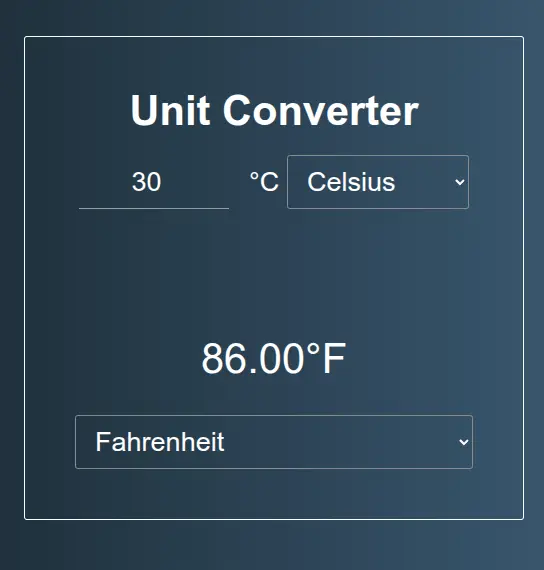
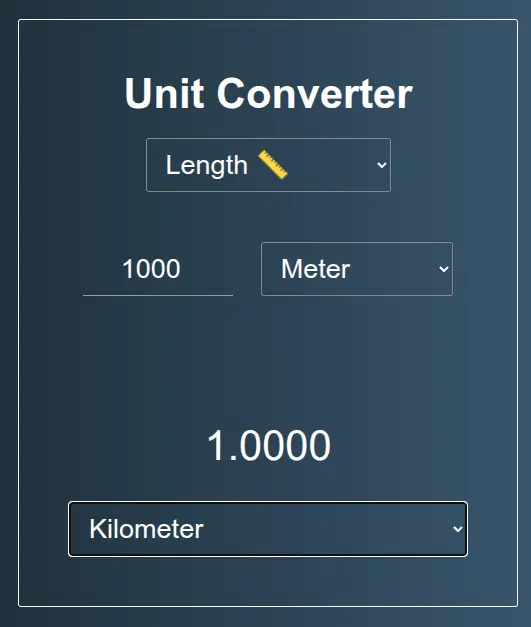
add length feature and code refactory

diff --git a/modules/length.js b/modules/length.js
@@ -1,16 +1,10 @@
-//SI-unit-functuion-------------------------------
-
-export function up(value, coefficient){
-    value = parseFloat(value);
-    let result = Number.parseFloat(value).toFixed(2)*coefficient;
-    return result;
-}
-//------------------------------------------------
 export function lengthConvert(x,y,value){
     let meter;
-    const MILEMETER = 1609.344;
-    const YARDMETER = 0.9144;
-    const FEETMETER = 0.3048;
+    const tometer = {
+        mile:  1609.344,
+        yard:  0.9144,
+        feet:  0.3048
+    };
 
     switch(true){
         case(x == "millimeter"):
@@ -35,13 +29,13 @@ export function lengthConvert(x,y,value){
             meter = value * 1000;
             break;
         case(x == "mile"):
-            meter = value * MILEMETER;
+            meter = value * tometer.mile;
             break;
         case(x == "yard"):
-            meter = value * YARDMETER;
+            meter = value * tometer.yard;
             break;
         case(x == "feet"):
-            meter = value * FEETMETER;
+            meter = value * tometer.feet;
             break;
         case(x == y):
             meter = value;
@@ -71,19 +65,19 @@ export function lengthConvert(x,y,value){
             result = meter / 1000;
             break;
         case (y == "mile"):
-            result = meter / MILEMETER;
+            result = meter / tometer.mile;
             break;
         case (y == "yard"):
-            result = meter / YARDMETER;
+            result = meter / tometer.yard;
             break;
         case (y == "feet"):
-            result = meter / FEETMETER;
+            result = meter / tometer.feet;
             break;
         case(x == y):
             meter = value;
             break;
     }
-    return result.toFixed(3);
+    return result.toPrecision(5);
 }
 
 

diff --git a/modules/temperature.js b/modules/temperature.js
@@ -1,37 +1,39 @@
+const FIXED = 5;
+
 function celsiusTokelvin(celsius){
     celsius = parseFloat(celsius);
-    let result = Number.parseFloat(celsius + 273.15).toFixed(2);
+    let result = Number.parseFloat(celsius + 273.15).toPrecision(FIXED);
     return result;
 }
 
 function celsiusTofahrenheit(celsius){
     celsius = parseFloat(celsius);
-    let result = Number.parseFloat(celsius*9/5+32).toFixed(2);
+    let result = Number.parseFloat(celsius*9/5+32).toPrecision(FIXED);
     return result;
 }
 
 //kelvin-------------------------
 function kelvinTocelsius(kelvin){
     kelvin = parseFloat(kelvin);
-    let result = Number.parseFloat(kelvin-273.15).toFixed(2);
+    let result = Number.parseFloat(kelvin-273.15).toPrecision(FIXED);
     return result;
 }
 
 function kelvinTofahrenheit(kelvin){
     kelvin = parseFloat(kelvin);
-    let result = Number.parseFloat((kelvin-273.15)*9/5+32).toFixed(2);
+    let result = Number.parseFloat((kelvin-273.15)*9/5+32).toPrecision(FIXED);
     return result;
 }
 //fahrenheit-----------------------------
 function fahrenheitTocelsius(fahrenheit){
     fahrenheit = parseFloat(fahrenheit);
-    let result = Number.parseFloat((fahrenheit-32)*5/9).toFixed(2);
+    let result = Number.parseFloat((fahrenheit-32)*5/9).toPrecision(FIXED);
     return result;
 }
 
 function fahrenheitTokelvin(fahrenheit){
     fahrenheit = parseFloat(fahrenheit);
-     let result = Number.parseFloat(fahrenheit*5/9+255.37).toFixed(2);
+     let result = Number.parseFloat(fahrenheit*5/9+255.37).toPrecision(FIXED);
     return result;
 }
 

diff --git a/index.html b/index.html
@@ -11,7 +11,7 @@
         <div class="box">
             <h2>Unit Converter</h2>
               <select name="" id="unit" style="margin-bottom: 50px;">
-                    <option value="default" selected>Select a Unit</option>
+                    <option value="default" selected>Select Unit</option>
                     <option value="length">Length 📏</option>
                     <option value="temperature">Temperature 🌡</option>
                 </select>

diff --git a/README.md b/README.md
@@ -5,14 +5,15 @@ A simple JavaScript application that converts the units of measurement.
 ## How it works ⚙
 
 
-The application, written in Javascript requires user to insert a starting value in a number field, and an unit measure in select menu (on top).
+The application, written in Javascript requires user to choose a physic quantity in the top menu, a initial value in a number field, and an unit of measurement in drop-down menu.
 
 ![App-demo](img/UnitConverter-demo.webp)
 
 
-On second select menu (on bottom) user can choose the unit of measurement that want to convert to. The convertion occurs automatically when user interacts with select menus or enters / changes the value in the number field.
+On bottom drop-down menu user can choose the unit of measurement that want to convert to. The convertion occurs automatically when user interacts with drop-down menus or enters / changes the value in the number field.
 
 ## Aviable Functionalities ✅
-At moment, the application support the following functionalities:
+The application supports the following functionalities:
 
+- Length 📏 (SI Units, Mile, Yard and Feet)
 - Temperature 🌡 (Celsius, Fahrenheit and Kelvin)
